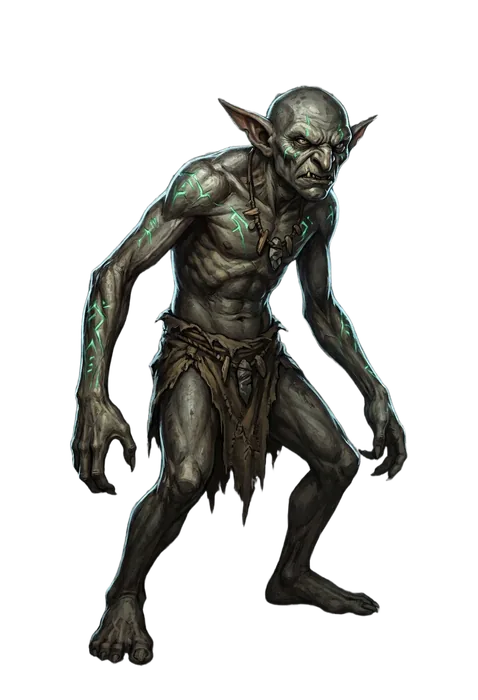
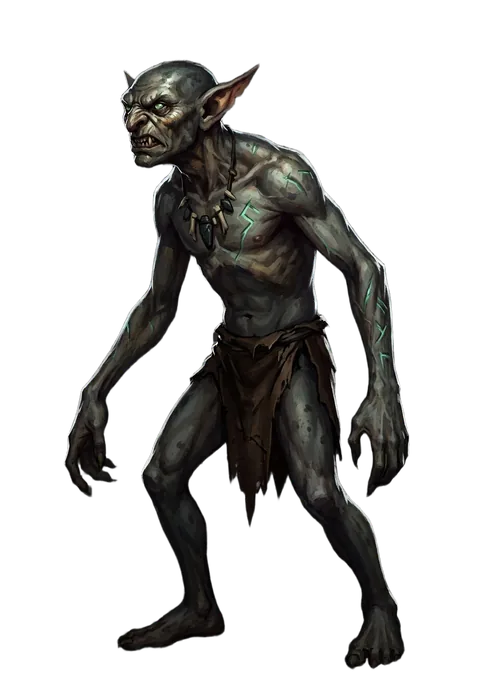
Звери смотрят на героя + починка фигуры с чертой (#15)
Две правки:

1. Все 11 зверей перерисованы повёрнутыми влево, к герою (раньше пятеро
   смотрели вправо, трое — в камеру). Перерисованы, а не отзеркалены, чтобы
   свет остался одинаковым у всех фигур.

2. Фигура зверя с чертой («Ядовитый ворон-падальщик») не находилась: имя
   приходит с чертой и строчными, а ключи были с большой буквы. Поиск
   переведён на сравнение без учёта регистра. Раньше такой зверь
   оставался круглым портретом.

diff --git a/public/index.html b/public/index.html
@@ -705,13 +705,16 @@ const BEASTFIG={
  'Ворон-падальщик':'/img/fig-raven.webp','Болотная крыса':'/img/fig-rat.webp','Горный медведь':'/img/fig-bear.webp',
  'Снежный барс':'/img/fig-leopard.webp','Разбойник с тракта':'/img/fig-bandit.webp','Вожак стаи':'/img/fig-alpha.webp',
  'Драугр':'/img/fig-draugr.webp','Тролль-подросток':'/img/fig-troll.webp'};
+// имя зверя приходит с чертой («Ядовитый ворон-падальщик») и строчными — ищем без учёта регистра
+const BFIG={};for(const k in BEASTFIG)BFIG[k.toLowerCase()]=BEASTFIG[k];
+const bfKey=n=>{n=String(n||'');const b=n.replace(/^\S+ /,'');return BFIG[b.toLowerCase()]||BFIG[n.toLowerCase()]||''};
 // точки рунных кругов на фоне (в % сцены): задний ряд мельче, передний крупнее
 const STPT=[{x:59.9,y:37.4,k:.85},{x:84.1,y:42.6,k:.85},{x:60.6,y:75,k:1},{x:84.8,y:81.5,k:1}];
 function stageHtml(H){const pa=petA(),fig=HEROFIG[S.cls];
  return `<div class="stage" style="--sbg:url(${STBG})"><div class="st-hud"><b>${esc(S.name)}</b><span class="st-bar"><i style="width:${S.hp/maxHp()*100}%;background:var(--moss)"></i></span><small>${S.hp}/${maxHp()} · ⚡${S.en}</small></div>
  <div class="st-hero${fig?' full':''}" id="sthero"><div class="st-fig">${fig?`<img src="${fig}" alt="">`:avatar(S.av,96)}</div>${pa?`<span class="st-pet" title="${esc(pa.n)}">${petImg(pa.k,30)}</span>`:''}</div>
  ${H.sl.slice(0,STPT.length).map((s,i)=>{const P=STPT[i],z=Math.round(P.y);if(!s.e)return`<div class="st-foe empty" style="left:${P.x}%;top:${P.y}%;z-index:${z}"><small>${s.at!=null?'Шорох в кустах…':''}</small></div>`;
-  const bf=BEASTFIG[s.e.name.replace(/^\S+ /,'')]||BEASTFIG[s.e.name],im=s.e.img||mobImg(s.e.name);
+  const bf=bfKey(s.e.name),im=s.e.img||mobImg(s.e.name);
   return`<button class="st-foe${fight.e===s.e?' on':''}${bf?' fig':''}" data-tg="${i}" id="sf${i}" aria-label="Цель: ${esc(s.e.name)}" title="${s.e.tr?esc(TRAITS[s.e.tr][1]):''}" style="left:${P.x}%;top:${P.y}%;--k:${P.k};z-index:${z}"><span class="st-img"${bf?'':im?` style="background-image:url(${im})"`:''}>${bf?`<img src="${bf}" alt="">`:''}</span><span class="st-hd"><span class="st-nm">${esc(s.e.name)}</span><span class="st-bar"><i style="width:${s.e.hp/s.e.max*100}%"></i></span><span class="st-atk"><i id="ma${i}" style="width:${Math.round(s.ech*100)}%"></i></span></span>${s.e.stun>fight.clk?'<span class="st-stun">💫</span>':''}</button>`}).join('')}</div>`}
 const HPW=new WeakMap();let SLE=[],HPH=null,SLH=null;
 function fxl(){let l=document.getElementById('fxl');if(!l){l=document.createElement('div');l.id='fxl';document.body.appendChild(l)}return l}
@@ -2020,7 +2023,7 @@ function snowRun(){
    cx.fillStyle=g;cx.beginPath();cx.arc(f.x,f.y,f.r*3,0,6.283);cx.fill()}};
  requestAnimationFrame(t=>{SNL=t;tick(t)})}
 if(document.readyState==='loading')document.addEventListener('DOMContentLoaded',snowRun);else setTimeout(snowRun,0);
-const GVER='1.18.1';
+const GVER='1.18.2';
 let GC=[],GCA=[],gcUn=null,lastGc=0,GCMSG='';let GCL=(()=>{try{return localStorage.getItem('nf_gcl')||LANG}catch(e){return LANG}})();
 const gcF=()=>{GC=GCA.filter(m=>(m.lg||'ru')===GCL)};
 const gcLgBar=()=>`<span class="gclg">${['ru','en'].map(l=>`<button class="lnk${GCL===l?' on':''}" data-gl="${l}">${l.toUpperCase()}</button>`).join('')}</span>`;
@@ -2426,7 +2429,7 @@ async function doNewHero(){
  create(UID)}
 function heroFields(){return`<h3>Класс</h3>${Object.keys(CL).map(k=>`<button class="cls ${pick===k?'on':''}" data-c="${k}"><b>${CL[k].n}</b><br>${CL[k].d}</button>`).join('')}<h3 style="margin-top:10px">Аватар</h3><div style="text-align:center">${avatar(av,80)}</div>${avPicker(av)}`}
 function authView(){
- const st=DBS==='ok'?'<span style="color:var(--moss)">●</span> Сервер подключён: прогресс хранится в твоём аккаунте. <span style="opacity:.6">Версия 1.18.1</span>':DBS==='wait'?'Подключаюсь к базе данных…':'<span style="color:var(--blood)">●</span> База данных недоступна: войти в аккаунт нельзя.';
+ const st=DBS==='ok'?'<span style="color:var(--moss)">●</span> Сервер подключён: прогресс хранится в твоём аккаунте. <span style="opacity:.6">Версия 1.18.2</span>':DBS==='wait'?'Подключаюсь к базе данных…':'<span style="color:var(--blood)">●</span> База данных недоступна: войти в аккаунт нельзя.';
  const err=(INAPP&&(scr==='reg'||scr==='login')?'<p style="margin:0 0 10px;padding:8px 10px;border-radius:8px;background:rgba(199,154,60,.15);font-size:14px">Ты открыл игру внутри приложения соцсети. Чтобы вход и прогресс точно сохранились, нажми <b>⋯</b> вверху справа → <b>«Открыть во внешнем браузере»</b>.</p>':'')+(AM?`<p style="color:var(--blood);margin:6px 0 10px">${esc(AM)}</p>`:'');
  const tabs=scr==='newhero'||scr==='gnew'?'':scr==='forgot'?`<button class="lnk" data-sc="login" style="padding:0 0 10px">‹ Назад ко входу</button>`:scr==='login'?`<button class="lnk" data-sc="gnew" style="padding:0 0 10px">‹ Назад</button>`:scr==='reg'?(LEG&&LEG.guest?`<button class="lnk" data-a="guestgo" style="padding:0 0 10px">‹ Вернуться в игру</button>`:`<button class="lnk" data-sc="gnew" style="padding:0 0 10px">‹ Назад</button>`):`<div style="display:flex;gap:6px;margin-bottom:12px"><button class="b ${scr==='login'?'':'alt'}" data-sc="login" style="flex:1">Вход</button><button class="b ${scr==='reg'?'':'alt'}" data-sc="reg" style="flex:1">Регистрация</button></div>`;
  const inp=(id,ph,type,ac)=>`<input id="${id}" type="${type||'text'}" placeholder="${ph}" aria-label="${ph}" autocomplete="${ac}" autocapitalize="none" spellcheck="false" maxlength="${type==='password'?64:16}">`;

diff --git a/public/en/index.html b/public/en/index.html
@@ -707,13 +707,16 @@ const BEASTFIG={
  'Carrion raven':'/img/fig-raven.webp','Swamp rat':'/img/fig-rat.webp','Mountain bear':'/img/fig-bear.webp',
  'Snow leopard':'/img/fig-leopard.webp','Highway robber':'/img/fig-bandit.webp','Pack leader':'/img/fig-alpha.webp',
  'Draugr':'/img/fig-draugr.webp','Young troll':'/img/fig-troll.webp'};
+// имя зверя приходит с чертой («Ядовитый ворон-падальщик») и строчными — ищем без учёта регистра
+const BFIG={};for(const k in BEASTFIG)BFIG[k.toLowerCase()]=BEASTFIG[k];
+const bfKey=n=>{n=String(n||'');const b=n.replace(/^\S+ /,'');return BFIG[b.toLowerCase()]||BFIG[n.toLowerCase()]||''};
 // точки рунных кругов на фоне (в % сцены): задний ряд мельче, передний крупнее
 const STPT=[{x:59.9,y:37.4,k:.85},{x:84.1,y:42.6,k:.85},{x:60.6,y:75,k:1},{x:84.8,y:81.5,k:1}];
 function stageHtml(H){const pa=petA(),fig=HEROFIG[S.cls];
  return `<div class="stage" style="--sbg:url(${STBG})"><div class="st-hud"><b>${esc(S.name)}</b><span class="st-bar"><i style="width:${S.hp/maxHp()*100}%;background:var(--moss)"></i></span><small>${S.hp}/${maxHp()} · ⚡${S.en}</small></div>
  <div class="st-hero${fig?' full':''}" id="sthero"><div class="st-fig">${fig?`<img src="${fig}" alt="">`:avatar(S.av,96)}</div>${pa?`<span class="st-pet" title="${esc(pa.n)}">${petImg(pa.k,30)}</span>`:''}</div>
  ${H.sl.slice(0,STPT.length).map((s,i)=>{const P=STPT[i],z=Math.round(P.y);if(!s.e)return`<div class="st-foe empty" style="left:${P.x}%;top:${P.y}%;z-index:${z}"><small>${s.at!=null?'Rustling in the bushes…':''}</small></div>`;
-  const bf=BEASTFIG[s.e.name.replace(/^\S+ /,'')]||BEASTFIG[s.e.name],im=s.e.img||mobImg(s.e.name);
+  const bf=bfKey(s.e.name),im=s.e.img||mobImg(s.e.name);
   return`<button class="st-foe${fight.e===s.e?' on':''}${bf?' fig':''}" data-tg="${i}" id="sf${i}" aria-label="Target: ${esc(s.e.name)}" title="${s.e.tr?esc(TRAITS[s.e.tr][1]):''}" style="left:${P.x}%;top:${P.y}%;--k:${P.k};z-index:${z}"><span class="st-img"${bf?'':im?` style="background-image:url(${im})"`:''}>${bf?`<img src="${bf}" alt="">`:''}</span><span class="st-hd"><span class="st-nm">${esc(s.e.name)}</span><span class="st-bar"><i style="width:${s.e.hp/s.e.max*100}%"></i></span><span class="st-atk"><i id="ma${i}" style="width:${Math.round(s.ech*100)}%"></i></span></span>${s.e.stun>fight.clk?'<span class="st-stun">💫</span>':''}</button>`}).join('')}</div>`}
 const HPW=new WeakMap();let SLE=[],HPH=null,SLH=null;
 function fxl(){let l=document.getElementById('fxl');if(!l){l=document.createElement('div');l.id='fxl';document.body.appendChild(l)}return l}
@@ -2022,7 +2025,7 @@ function snowRun(){
    cx.fillStyle=g;cx.beginPath();cx.arc(f.x,f.y,f.r*3,0,6.283);cx.fill()}};
  requestAnimationFrame(t=>{SNL=t;tick(t)})}
 if(document.readyState==='loading')document.addEventListener('DOMContentLoaded',snowRun);else setTimeout(snowRun,0);
-const GVER='1.18.1';
+const GVER='1.18.2';
 let GC=[],GCA=[],gcUn=null,lastGc=0,GCMSG='';let GCL=(()=>{try{return localStorage.getItem('nf_gcl')||LANG}catch(e){return LANG}})();
 const gcF=()=>{GC=GCA.filter(m=>(m.lg||'ru')===GCL)};
 const gcLgBar=()=>`<span class="gclg">${['ru','en'].map(l=>`<button class="lnk${GCL===l?' on':''}" data-gl="${l}">${l.toUpperCase()}</button>`).join('')}</span>`;
@@ -2428,7 +2431,7 @@ async function doNewHero(){
  create(UID)}
 function heroFields(){return`<h3>Class</h3>${Object.keys(CL).map(k=>`<button class="cls ${pick===k?'on':''}" data-c="${k}"><b>${CL[k].n}</b><br>${CL[k].d}</button>`).join('')}<h3 style="margin-top:10px">Avatar</h3><div style="text-align:center">${avatar(av,80)}</div>${avPicker(av)}`}
 function authView(){
- const st=DBS==='ok'?'<span style="color:var(--moss)">●</span> Server connected: progress is stored in your account. <span style="opacity:.6">Version 1.18.1</span>':DBS==='wait'?'Connecting to the database…':'<span style="color:var(--blood)">●</span> The database is unavailable: you can\'t log in to an account.';
+ const st=DBS==='ok'?'<span style="color:var(--moss)">●</span> Server connected: progress is stored in your account. <span style="opacity:.6">Version 1.18.2</span>':DBS==='wait'?'Connecting to the database…':'<span style="color:var(--blood)">●</span> The database is unavailable: you can\'t log in to an account.';
  const err=(INAPP&&(scr==='reg'||scr==='login')?'<p style="margin:0 0 10px;padding:8px 10px;border-radius:8px;background:rgba(199,154,60,.15);font-size:14px">You opened the game inside a social media app. To make sure your login and progress are saved, tap <b>⋯</b> at the top right → <b>“Open in external browser”</b>.</p>':'')+(AM?`<p style="color:var(--blood);margin:6px 0 10px">${esc(AM)}</p>`:'');
  const tabs=scr==='newhero'||scr==='gnew'?'':scr==='forgot'?`<button class="lnk" data-sc="login" style="padding:0 0 10px">‹ Back to login</button>`:scr==='login'?`<button class="lnk" data-sc="gnew" style="padding:0 0 10px">‹ Back</button>`:scr==='reg'?(LEG&&LEG.guest?`<button class="lnk" data-a="guestgo" style="padding:0 0 10px">‹ Back to the game</button>`:`<button class="lnk" data-sc="gnew" style="padding:0 0 10px">‹ Back</button>`):`<div style="display:flex;gap:6px;margin-bottom:12px"><button class="b ${scr==='login'?'':'alt'}" data-sc="login" style="flex:1">Log in</button><button class="b ${scr==='reg'?'':'alt'}" data-sc="reg" style="flex:1">Sign up</button></div>`;
  const inp=(id,ph,type,ac)=>`<input id="${id}" type="${type||'text'}" placeholder="${ph}" aria-label="${ph}" autocomplete="${ac}" autocapitalize="none" spellcheck="false" maxlength="${type==='password'?64:16}">`;
